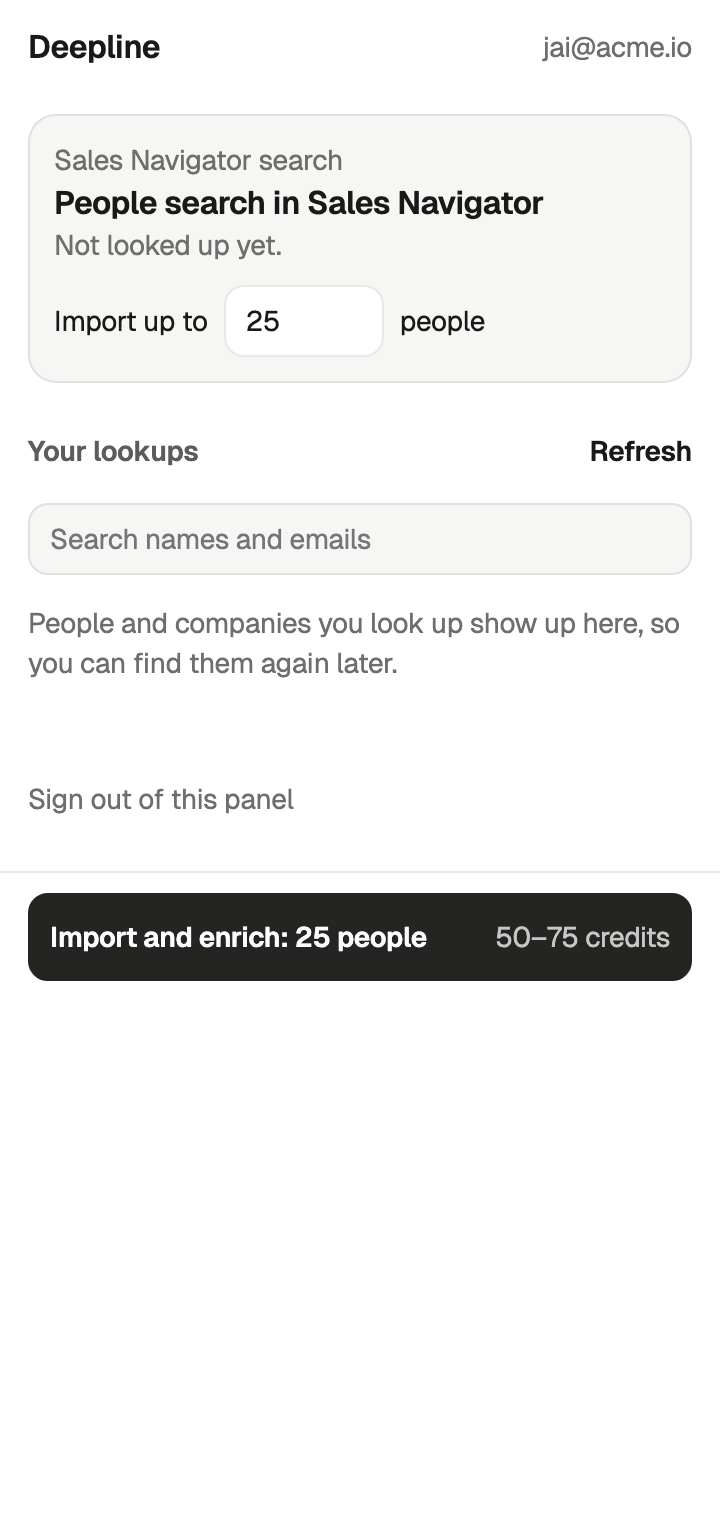
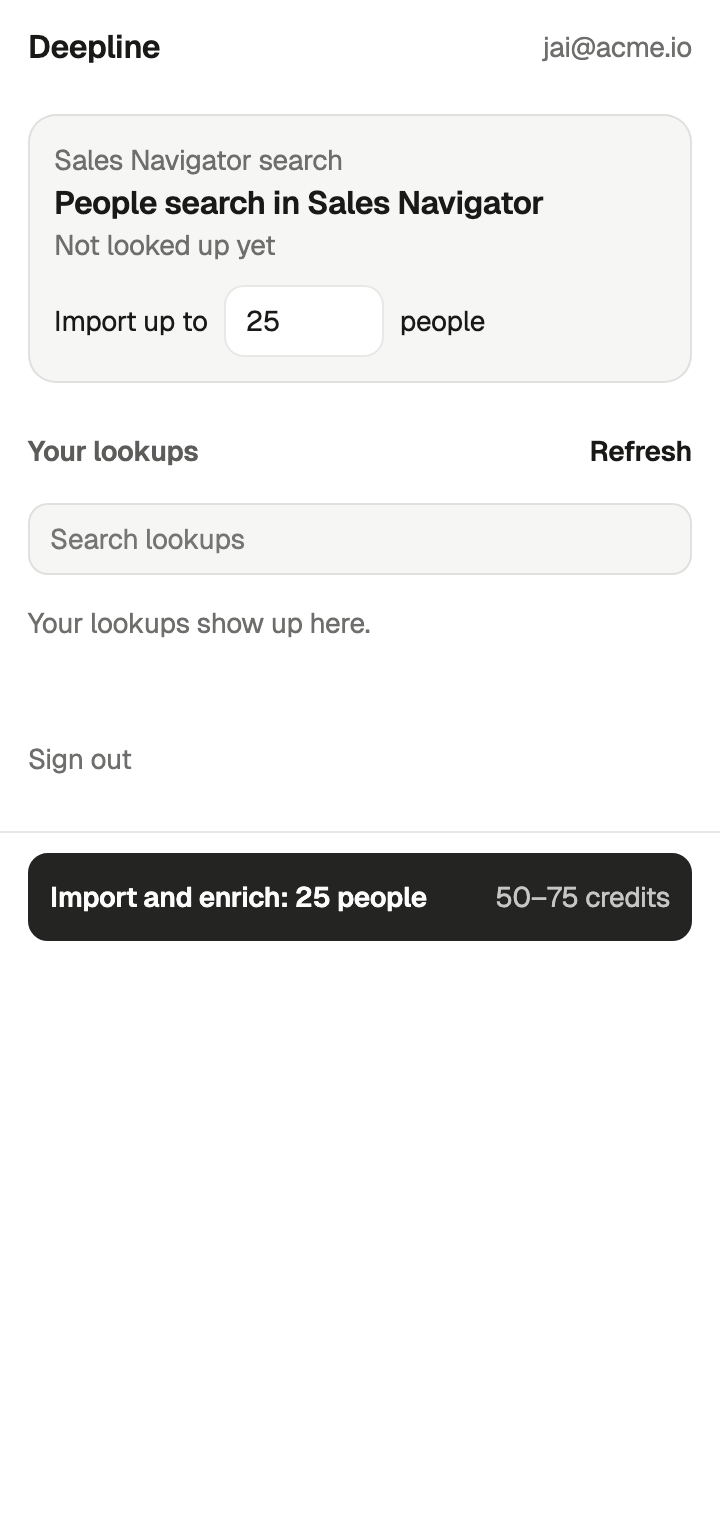
Only offer handoffs for connected integrations; tighten copy
Actions and handoffs whose integrations aren't connected for the
workspace (per /api/v2/integrations/list) are hidden, so "Add to HubSpot"
never shows without HubSpot. If the status call fails nothing is hidden.
Every rep-facing string is shorter and plainer. Adds a HubSpot-not-
connected screenshot state.

Claude-Session: https://claude.ai/code/session_019pSCRsQPCMXJtBrMuVGw7i

Changed region(s): [[0.0306, 0.4947, 0.9778, 0.6493], [0.0306, 0.402, 0.9472, 0.4638], [0.2139, 0.3401, 0.5194, 0.3711]]

diff --git a/docs/wireframes.html b/docs/wireframes.html
@@ -174,7 +174,7 @@ footer { color: var(--muted); font-size: 13px; display: grid; gap: 6px; }
       <div class="decision"><b>Nothing technical for reps</b><span>No keys, settings, play names to set up, or URLs. The central team chooses the actions and handoffs once in Deepline; reps just click.</span></div>
       <div class="decision"><b>One-step sign-in</b><span>Installing opens Deepline sign-in. If the rep is already signed in, the panel is connected with no steps at all.</span></div>
       <div class="decision"><b>What you have, then what to do</b><span>Saved results show before any paid action. Once a result is in, the pinned action becomes the handoff or Copy email, never a second paid lookup.</span></div>
-      <div class="decision"><b>Credits on the button</b><span>Every action shows its cost. Anything over 25 credits asks once in the panel. Misses are free.</span></div>
+      <div class="decision"><b>Credits on the button</b><span>Every action shows its cost. Anything over 25 credits asks once in the panel. No charge.</span></div>
       <div class="decision"><b>Only the address and title</b><span>The panel reads the page address and tab title, nothing else, so LinkedIn sees nothing. Deepline does every lookup.</span></div>
     </dl>
   </section>
@@ -228,7 +228,7 @@ const tableSec = rows => `<div class="box"><div class="kind"><b style="color:var
 const PROFILE = "linkedin.com/in/maya-okafor-4b1";
 const card = (kind, title, detected, inner = "") => `<div class="box"><div class="kind"><span>${kind}</span><u>${detected}</u></div><div class="ttl">${title}</div>${inner}</div>`;
 const cta = (label, meta = "", off = false) => `<div class="ctabar">${btn(label, meta, off ? "off" : "")}</div>`;
-const more = (items) => `<div class="more"><span class="sub">Other actions</span>${items.map(([l, m]) => `<div class="lk"><span class="lnk">${l}</span><small>${m}</small></div>`).join("")}</div>`;
+const more = (items) => `<div class="more"><span class="sub">More</span>${items.map(([l, m]) => `<div class="lk"><span class="lnk">${l}</span><small>${m}</small></div>`).join("")}</div>`;
 const panel = (u, body, ctaHtml) => `<div class="device" role="img" aria-label="Panel wireframe">${url(u)}<div class="p">${body}</div>${ctaHtml}</div>`;
 const browser = (u, body) => `<div class="device" role="img" aria-label="Browser tab wireframe">${url(u)}<div class="p">${body}</div></div>`;
 
@@ -238,17 +238,17 @@ const SECTIONS = [
     mock: browser("code.deepline.com/sign-in", `<div class="ttl">Sign in to Deepline</div><span class="sub">Opened automatically when you added the extension.</span>${btn("Continue with Google","","pri")}${btn("Email me a sign-in link")}`),
     goal: "Get set up without thinking about it.", needs: "Nothing new: the same Deepline account the team already uses.", cta: "Continue with Google (in the Deepline tab)", sys: "Installing opens this tab. Signing in here connects the panel; there is no second login." },
   { t: "Already signed in", crit: ["C4","C1"],
-    mock: panel(PROFILE, head() + card("LinkedIn profile","Maya Okafor","read from the address", `<span class="sub">Nothing saved for Maya yet.</span>`), cta("Find email + phone","~3 credits")),
+    mock: panel(PROFILE, head() + card("LinkedIn profile","Maya Okafor","read from the address", `<span class="sub">Not looked up yet</span>`), cta("Find email + phone","~3 credits")),
     goal: "Start working immediately.", needs: "That it's connected (their email, top right) and who is on screen.", cta: "Find email + phone · ~3 credits", sys: "Zero setup steps. The panel found the Deepline session and the team's actions." },
   { t: "Not signed in yet", crit: ["C4"],
-    mock: panel(PROFILE, head("") + `<div class="box"><div class="ttl">Sign in to start</div><span class="sub">Use the Deepline account your team uses. This panel connects by itself once you're signed in.</span><span class="lnk">Trouble signing in? Approve this browser instead</span></div>`, cta("Sign in to Deepline")),
+    mock: panel(PROFILE, head("") + `<div class="box"><div class="ttl">Sign in to start</div><span class="sub">Use your team's Deepline account. You only do this once.</span><span class="lnk">Trouble signing in? Approve this browser</span></div>`, cta("Sign in to Deepline")),
     goal: "Get in.", needs: "One way in, plus a way out if SSO blocks it.", cta: "Sign in to Deepline", sys: "Opens the sign-in tab; the panel connects the moment the tab finishes signing in." },
   { t: "Signed out later", crit: ["C4","C10"],
     mock: panel(PROFILE, head("") + `<div class="alert warn"><b>You're signed out of Deepline</b><span>Your saved lookups are safe.</span></div>` + card("LinkedIn profile","Maya Okafor","read from the address", `<span class="sub">Saved 3d ago: email, phone</span>`), cta("Sign in again")),
     goal: "Get back to work without losing anything.", needs: "That nothing was lost.", cta: "Sign in again", sys: "Saved results stay visible; nothing re-runs." },
   { t: "Team setup isn't done", crit: ["C10"],
-    mock: panel(PROFILE, head() + `<div class="box"><div class="ttl">Your team hasn't turned this on yet</div><span class="sub">Deepline couldn't finish setting up for your workspace. Send this to whoever manages Deepline on your team.</span><span class="lnk">Try again</span></div>`, cta("Copy a note for your admin")),
-    goal: "Get unblocked without understanding why.", needs: "Who can fix it.", cta: "Copy a note for your admin", sys: "Copies a plain-English request that names the one setup step." },
+    mock: panel(PROFILE, head() + `<div class="box"><div class="ttl">Not set up yet</div><span class="sub">Ask your Deepline admin to turn this on.</span><span class="lnk">Try again</span></div>`, cta("Copy note for admin")),
+    goal: "Get unblocked without understanding why.", needs: "Who can fix it.", cta: "Copy note for admin", sys: "Copies a plain-English request that names the one setup step." },
  ]},
  { id: "admin", label: "Central team", title: "One-time setup in Deepline", job: "The central team decides what reps see. Reps never do this.", frames: [
   { t: "Choose actions and handoffs", crit: ["C7","C6"],
@@ -262,19 +262,19 @@ const SECTIONS = [
  ]},
  { id: "person", label: "Person", title: "A LinkedIn profile or Sales Navigator lead", job: "Reach this person. Don't pay twice. Trust it before I send.", frames: [
   { t: "New person", crit: ["C1","C6","C11","C12"],
-    mock: panel(PROFILE, head() + card("LinkedIn profile","Maya Okafor","read from the address", `<span class="sub">Nothing saved for Maya yet.</span>` + more([["Job change check","~1 credit"]])), cta("Find email + phone","~3 credits")),
+    mock: panel(PROFILE, head() + card("LinkedIn profile","Maya Okafor","read from the address", `<span class="sub">Not looked up yet</span>` + more([["Job change check","~1 credit"]])), cta("Find email + phone","~3 credits")),
     goal: "Get a way to reach Maya.", needs: "That it's the right person, that nothing is saved yet, the cost.", cta: "Find email + phone · ~3 credits", sys: "Sends Maya's profile address to the team's action; checks every provider in turn; misses are free." },
   { t: "Working", crit: ["C1","C5","C9"],
-    mock: panel(PROFILE, head() + card("LinkedIn profile","Maya Okafor","read from the address", `<div class="row"><div class="top"><span class="nm">Find email + phone</span>${chip("working")}</div><div class="sk" style="width:70%"></div><div class="sk" style="width:45%"></div></div><span class="sub">You can open the next profile. This keeps going.</span>`), cta("Working on it…","",true)),
-    goal: "Keep moving.", needs: "That it's happening and that leaving is safe.", cta: "Working on it… (disabled)", sys: "Saved as in progress before it starts, so closing the panel loses nothing." },
+    mock: panel(PROFILE, head() + card("LinkedIn profile","Maya Okafor","read from the address", `<div class="row"><div class="top"><span class="nm">Find email + phone</span>${chip("working")}</div><div class="sk" style="width:70%"></div><div class="sk" style="width:45%"></div></div><span class="sub">You can open the next profile. This keeps going.</span>`), cta("Working…","",true)),
+    goal: "Keep moving.", needs: "That it's happening and that leaving is safe.", cta: "Working… (disabled)", sys: "Saved as in progress before it starts, so closing the panel loses nothing." },
   { t: "Found, with a handoff", crit: ["C3","C7","C13"],
-    mock: panel(PROFILE, head() + card("LinkedIn profile","Maya Okafor","read from the address", `<div class="row"><div class="top"><span class="nm">Find email + phone</span>${chip("done","ok")}</div>${val("maya@northwind.io","verified · today")}${val("+1 415 555 0142","mobile · today")}<span class="lnk">Wrong or bounced? Look up again</span></div>` + more([["Copy email",""],["Add to Q4 lemlist","free"]])), cta("Add to HubSpot","free")),
-    goal: "Use the result without copy-paste.", needs: "The email and phone, whether to trust them, where they can go.", cta: "Add to HubSpot", sys: "Runs the team's HubSpot handoff with Maya's details; the row then reads 'Add to HubSpot: done' with a link." },
+    mock: panel(PROFILE, head() + card("LinkedIn profile","Maya Okafor","read from the address", `<div class="row"><div class="top"><span class="nm">Find email + phone</span>${chip("done","ok")}</div>${val("maya@northwind.io","verified · today")}${val("+1 415 555 0142","mobile · today")}<span class="lnk">Wrong or bounced? Find email + phone again</span></div>` + more([["Copy email",""],["Add to Q4 lemlist","free"]])), cta("Add to HubSpot","free")),
+    goal: "Use the result without copy-paste.", needs: "The email and phone, whether to trust them, where they can go.", cta: "Add to HubSpot", sys: "Shown only when the workspace has HubSpot connected. Runs the team's HubSpot handoff with Maya's details; the row then reads 'Add to HubSpot: done' with a link." },
   { t: "Found, no handoff set up", crit: ["C3","C13"],
-    mock: panel(PROFILE, head() + card("LinkedIn profile","Maya Okafor","read from the address", `<div class="row"><div class="top"><span class="nm">Find email + phone</span>${chip("done · 12d ago","ok")}</div>${val("maya@northwind.io","verified 12d ago")}${val("+1 415 555 0142","mobile")}</div>` + more([["Look up again","~3 credits"],["Job change check","~1 credit"]])), cta("Copy email","maya@northwind.io")),
+    mock: panel(PROFILE, head() + card("LinkedIn profile","Maya Okafor","read from the address", `<div class="row"><div class="top"><span class="nm">Find email + phone</span>${chip("done · 12d ago","ok")}</div>${val("maya@northwind.io","verified 12d ago")}${val("+1 415 555 0142","mobile")}</div>` + more([["Find email + phone again","~3 credits"],["Job change check","~1 credit"]])), cta("Copy email","maya@northwind.io")),
     goal: "Get the email into my email.", needs: "The saved value and how old it is.", cta: "Copy email", sys: "Nothing is re-bought. Looking up again is a deliberate, priced choice." },
   { t: "Nothing found", crit: ["C10","C6"],
-    mock: panel(PROFILE, head() + card("LinkedIn profile","Maya Okafor","read from the address", `<div class="row"><div class="top"><span class="nm">Find email + phone</span>${chip("nothing found","bad")}</div><span class="sub">Every provider checked. Misses are free.</span></div>`), cta("Job change check","~1 credit")),
+    mock: panel(PROFILE, head() + card("LinkedIn profile","Maya Okafor","read from the address", `<div class="row"><div class="top"><span class="nm">Find email + phone</span>${chip("nothing found","bad")}</div><span class="sub">Every provider checked. No charge.</span></div>`), cta("Job change check","~1 credit")),
     goal: "Know what to try next.", needs: "That it really looked, and that it was free.", cta: "The team's next action (here, Job change check)", sys: "No charge for the miss." },
   { t: "Sales Navigator lead", crit: ["C11","C12"],
     mock: panel("linkedin.com/sales/lead/ACwAAB3k…", head() + card("Sales Navigator lead","Sam Lee","read from the address", `<span class="sub">Sales Navigator hides the public profile, so this finds it from the name first.</span>`), cta("Find email + phone","~4 credits")),
@@ -290,7 +290,7 @@ const SECTIONS = [
     mock: panel("linkedin.com/sales/search/people?query=…", head() + card("Sales Navigator search","VP Sales · SaaS · 51–200","read from the address", `<div class="field"><span>How many</span><span class="input" style="padding:3px 8px"><span style="color:var(--ink)">25</span><span>people</span></span></div><span class="sub">Deepline fetches the results. Nothing is read from this page.</span>`), cta("Import and enrich: 25 people","up to 75 credits")),
     goal: "Turn this search into a list.", needs: "How many, the cost, that LinkedIn isn't touched.", cta: "Import and enrich: 25 people · up to 75 credits", sys: "Hands the search address to the team's import; each person becomes a saved lookup." },
   { t: "Over 25 credits", crit: ["C6"],
-    mock: panel("linkedin.com/sales/search/people?query=…", head() + card("Sales Navigator search","VP Sales · SaaS · 51–200","read from the address", `<div class="alert warn"><b>This may use up to 300 credits</b><span>You're only charged for what's found.</span><span class="lnk">Cancel</span></div>`), cta("Go ahead","up to 300 credits")),
+    mock: panel("linkedin.com/sales/search/people?query=…", head() + card("Sales Navigator search","VP Sales · SaaS · 51–200","read from the address", `<div class="alert warn"><b>Up to 300 credits</b><span>You only pay for what's found.</span><span class="lnk">Cancel</span></div>`), cta("Go ahead","up to 300 credits")),
     goal: "Avoid a surprise bill.", needs: "The worst-case cost.", cta: "Go ahead · up to 300 credits", sys: "The confirm is part of the panel, never a pop-up." },
   { t: "Importing", crit: ["C8","C9"],
     mock: panel("linkedin.com/feed/", head() + `<div class="box"><div class="row"><div class="top"><span class="nm">VP Sales · SaaS · 51–200</span>${chip("38 of 100")}</div><div class="bar"><i style="width:38%"></i></div><span class="sub">31 emails, 22 phones so far</span></div></div>`, cta("Search your lookups")),
@@ -303,7 +303,7 @@ const SECTIONS = [
  ]},
  { id: "lookups", label: "Your lookups", title: "Everyone you've looked up", job: "Find who I looked up last week.", frames: [
   { t: "Any other page", crit: ["C9","C13","C5"],
-    mock: panel("mail.google.com/mail/u/0/#inbox", head() + `<div class="box"><span class="sub">Open a LinkedIn profile, company or search, a Sales Navigator lead or list, a CRM record, or any company website.</span></div>` + tableSec(`<div class="row"><div class="top"><span class="nm">Maya Okafor</span>${chip("done","ok")}</div><span class="sub">Find email + phone · 2m ago</span>${val("maya@northwind.io","verified")}</div><div class="row"><div class="top"><span class="nm">Priya Shah</span>${chip("done","ok")}</div><span class="sub">Finished while the panel was closed</span></div><div class="row"><div class="top"><span class="nm">Leo Martins</span>${chip("didn't finish","bad")}</div><span class="sub">A provider timed out. Not charged.</span></div>`), cta("Search your lookups")),
+    mock: panel("mail.google.com/mail/u/0/#inbox", head() + `<div class="box"><span class="sub">Open a LinkedIn profile, company or search, a CRM record, or a company website.</span></div>` + tableSec(`<div class="row"><div class="top"><span class="nm">Maya Okafor</span>${chip("done","ok")}</div><span class="sub">Find email + phone · 2m ago</span>${val("maya@northwind.io","verified")}</div><div class="row"><div class="top"><span class="nm">Priya Shah</span>${chip("done","ok")}</div><span class="sub">Finished while the panel was closed</span></div><div class="row"><div class="top"><span class="nm">Leo Martins</span>${chip("didn't finish","bad")}</div><span class="sub">A provider timed out. Not charged.</span></div>`), cta("Search your lookups")),
     goal: "Find someone again.", needs: "Names, emails, what's done and what failed.", cta: "Search your lookups", sys: "Every lookup is saved in Deepline; anything that finished while closed is filled in on open." },
  ]},
  { id: "later", label: "Later", later: true, title: "Later", job: "Shown so you can approve or cut it. Gmail is out of scope for now.", frames: [

diff --git a/src/sidepanel/sidepanel.ts b/src/sidepanel/sidepanel.ts
@@ -4,7 +4,7 @@
  *  flight are tracked by the rep's rows, so closing the panel loses nothing. */
 import { fetchSession, keySession, pollClaim, registerDevice, signInUrl, isDeeplineTab, type Connection, type PendingClaim } from "../background/auth";
 import { KIND_GROUP, KIND_LABEL, pageContext, type PageContext } from "../shared/context";
-import { AuthError, DEFAULT_BASE_URL, TERMINAL, costLabel, inputFor, listPlays, maxCredits, normalizeBaseUrl, pollRun, query, startRun, type Credential, type PlaySummary } from "../shared/deepline";
+import { AuthError, DEFAULT_BASE_URL, TERMINAL, connectedProviders, costLabel, inputFor, listPlays, playAvailable, maxCredits, normalizeBaseUrl, pollRun, query, startRun, type Credential, type PlaySummary } from "../shared/deepline";
 import { CONFIG_SQL, DEFAULT_CONFIG, SETUP_SQL, finishSql, listSql, parseConfig, startSql, type AssistantConfig, type RecordRow } from "../shared/records";
 
 declare const __EXTENSION_VERSION__: string;
@@ -51,6 +51,8 @@ const state = {
   needsSetup: false,
   config: DEFAULT_CONFIG as AssistantConfig,
   plays: [] as PlaySummary[],
+  /** Integrations the workspace has connected; null until known (then nothing is hidden). */
+  connected: null as Set<string> | null,
   ctx: pageContext(undefined),
   cap: DEFAULT_CONFIG.default_import_cap,
   rows: [] as RecordRow[],
@@ -63,11 +65,11 @@ const state = {
 function friendly(e: unknown): string {
   const msg = e instanceof Error ? e.message : String(e);
   console.warn("[deepline-assistant]", msg);
-  if (e instanceof AuthError) return "You're signed out of Deepline. Sign in again to keep going.";
-  if (/credit|balance|insufficient|402/i.test(msg)) return "Your team is out of Deepline credits. Ask your admin to add more.";
-  if (/429|concurrency|too many/i.test(msg)) return "Deepline is busy with your other lookups. Try again in a few seconds.";
-  if (/Failed to fetch|NetworkError|network/i.test(msg)) return "Can't reach Deepline. Check your connection and try again.";
-  return "That didn't work. Try again, and tell your Deepline admin if it keeps happening.";
+  if (e instanceof AuthError) return "Signed out. Sign in to continue.";
+  if (/credit|balance|insufficient|402/i.test(msg)) return "Out of credits. Ask your admin to add more.";
+  if (/429|concurrency|too many/i.test(msg)) return "Busy. Try again in a moment.";
+  if (/Failed to fetch|NetworkError|network/i.test(msg)) return "Can't reach Deepline. Check your connection.";
+  return "Something went wrong. Try again.";
 }
 function showError(e: unknown) {
   const box = $("error");
@@ -79,7 +81,7 @@ function showError(e: unknown) {
 const rowKey = (r: Pick<RecordRow, "entity_key" | "play_key">) => `${r.entity_key}\u0000${r.play_key}`;
 /** A configured play, with the team's rep-facing label applied. */
 function findPlay(key: string): PlaySummary | undefined {
-  const p = state.plays.find((x) => x.playKey === key || x.playKey === `prebuilt/${key}`);
+  const p = state.plays.find((x) => (x.playKey === key || x.playKey === `prebuilt/${key}`) && playAvailable(x, state.connected));
   const label = state.config.labels[key] ?? (p && state.config.labels[p.playKey]);
   return p && label ? { ...p, displayName: label } : p;
 }
@@ -88,7 +90,7 @@ function ago(iso: string): string {
   const s = Math.max(0, (Date.now() - Date.parse(iso)) / 1000);
   return s < 60 ? "just now" : s < 3600 ? `${Math.floor(s / 60)}m ago` : s < 86400 ? `${Math.floor(s / 3600)}h ago` : `${Math.floor(s / 86400)}d ago`;
 }
-const STATUS_LABEL: Record<string, string> = { queued: "starting", running: "working", waiting: "working", completed: "done", failed: "didn't finish", cancelled: "stopped" };
+const STATUS_LABEL: Record<string, string> = { queued: "starting", running: "working", waiting: "working", completed: "done", failed: "failed", cancelled: "stopped" };
 
 /* ---------------------------------------------------------------- sign-in */
 
@@ -114,7 +116,11 @@ async function connect(): Promise<void> {
   }
   $("who").textContent = state.owner ?? "";
   if (!state.cred) return void (s.claim ? waitForClaim(s.claim) : undefined);
-  await Promise.all([setUp(s), listPlays(state.cred).then((p) => (state.plays = p))]);
+  await Promise.all([
+    setUp(s),
+    listPlays(state.cred).then((p) => (state.plays = p)),
+    connectedProviders(state.cred).then((c) => (state.connected = c), (e) => console.warn("[deepline-assistant] integration status unavailable", e))
+  ]);
   if (!state.needsSetup) await loadRows();
 }
 
@@ -264,7 +270,7 @@ const isBusy = (entity: string, play: string) => state.busy.has(rowKey({ entity_
 /** Pick the one thing the rep most needs to do here, and list the rest quietly. */
 function plan(): { cta: Cta | null; others: { label: string; meta: string; run: () => void; disabled: boolean }[] } {
   if (!state.cred) return { cta: { label: "Sign in to Deepline", run: () => void chrome.tabs.create({ url: signInUrl(state.baseUrl) }) }, others: [] };
-  if (state.needsSetup) return { cta: { label: "Copy a note for your admin", run: copyAdminNote }, others: [] };
+  if (state.needsSetup) return { cta: { label: "Copy note for admin", run: copyAdminNote }, others: [] };
   const c = state.confirming;
   if (c) return { cta: { label: "Go ahead", meta: `up to ${Math.round(c.credits)} credits`, run: () => void run(c.play, c.ctx) }, others: [] };
   const ctx: PageContext = { ...state.ctx, limit: KIND_GROUP[state.ctx.kind] === "search" ? state.cap : undefined };
@@ -282,16 +288,16 @@ function plan(): { cta: Cta | null; others: { label: string; meta: string; run: 
   const nextHandoff = result ? handoffsFor(result).find((x) => !x.done) : undefined;
 
   let cta: Cta | null = null;
-  if (running || [...state.busy].some((k) => k.startsWith(`${entity}\u0000`))) cta = { label: "Working on it…", disabled: true, run: () => undefined };
+  if (running || [...state.busy].some((k) => k.startsWith(`${entity}\u0000`))) cta = { label: "Working…", disabled: true, run: () => undefined };
   else if (nextHandoff) cta = { label: nextHandoff.play.displayName, meta: costLabel(nextHandoff.play.cost), run: () => requestRun(nextHandoff.play, nextHandoff.ctx) };
   else if (result?.email) cta = { label: "Copy email", meta: result.email, run: () => void copy(result.email!) };
   else if (fresh[0]) cta = item(fresh[0]);
-  else if (actions[0]) cta = { ...item(actions[0]), label: `Look up again: ${actions[0].displayName}` };
+  else if (actions[0]) cta = { ...item(actions[0]), label: `${actions[0].displayName} again` };
 
   const ctaPlay = cta && fresh[0] && cta.label === label(fresh[0]) ? fresh[0].playKey : null;
   const others = actions.filter((p) => p.playKey !== ctaPlay && !isBusy(entity, p.playKey)).map((p) => {
     const done = rows.some((r) => r.play_key === p.playKey && r.status === "completed");
-    return { ...item(p), label: done ? `Look up again: ${p.displayName}` : label(p) };
+    return { ...item(p), label: done ? `${p.displayName} again` : label(p) };
   });
   return { cta, others };
 }
@@ -312,9 +318,9 @@ function rowItem(r: RecordRow, onPage: boolean): HTMLElement {
       h("span", { class: `chip ${r.status}` }, STATUS_LABEL[r.status] ?? r.status)
     ),
     h("span", { class: "muted" }, onPage ? ago(r.updated_at) : `${playName(r.play_key)} · ${ago(r.updated_at)}`),
-    r.email ? copyBtn(r.email, "verified email") : null,
+    r.email ? copyBtn(r.email, "verified") : null,
     r.phone ? copyBtn(r.phone, "phone") : null,
-    r.status === "completed" && !r.email && !r.phone && /linkedin_person|salesnav_lead|crm_record/.test(r.kind ?? "") ? h("span", { class: "muted" }, "Nothing found. Misses are free.") : null,
+    r.status === "completed" && !r.email && !r.phone && /linkedin_person|salesnav_lead|crm_record/.test(r.kind ?? "") ? h("span", { class: "muted" }, "Nothing found. No charge.") : null,
     r.error ? h("span", { class: "err" }, r.error) : null,
     ...handoffNote
   );
@@ -347,14 +353,14 @@ function render() {
     $("pageKind").hidden = !$("pageKind").textContent;
     $("pageLabel").textContent = ctx.label;
     const pageRows = state.rows.filter((r) => r.entity_key === ctx.entity_key && !state.config.handoffs.includes(r.play_key));
-    $("pageRows").replaceChildren(...(pageRows.length ? pageRows.map((r) => rowItem(r, true)) : [h("li", { class: "muted" }, "Not looked up yet.")]));
+    $("pageRows").replaceChildren(...(pageRows.length ? pageRows.map((r) => rowItem(r, true)) : [h("li", { class: "muted" }, "Not looked up yet")]));
     $("capRow").hidden = KIND_GROUP[ctx.kind] !== "search" || !pageActions(ctx).length;
     const c = state.confirming;
     $("confirm").hidden = !c;
-    if (c) $("confirm").replaceChildren(h("b", {}, `This may use up to ${Math.round(c.credits)} credits`), h("span", { class: "muted" }, "You're only charged for what's found."), h("button", { class: "link", on: { click: () => ((state.confirming = null), render()) } }, "Cancel"));
+    if (c) $("confirm").replaceChildren(h("b", {}, `Up to ${Math.round(c.credits)} credits`), h("span", { class: "muted" }, "You only pay for what's found."), h("button", { class: "link", on: { click: () => ((state.confirming = null), render()) } }, "Cancel"));
     $("more").hidden = !others.length || !!c;
     $("actions").replaceChildren(...others.map((o) => h("button", { class: "link", disabled: o.disabled, on: { click: o.run } }, h("span", {}, o.label), h("span", { class: "why" }, o.meta))));
-    if (!pageActions(ctx).length && !state.rows.some((r) => r.entity_key === ctx.entity_key)) $("pageRows").replaceChildren(h("li", { class: "muted" }, "Your team hasn't added actions for this kind of page yet."));
+    if (!pageActions(ctx).length && !state.rows.some((r) => r.entity_key === ctx.entity_key)) $("pageRows").replaceChildren(h("li", { class: "muted" }, "No actions for this page yet. Ask your admin."));
   }
   const q = ($("filter") as HTMLInputElement).value.trim().toLowerCase();
   const mine = state.rows.filter((r) => !state.config.handoffs.includes(r.play_key));
@@ -366,8 +372,8 @@ function render() {
 let ctaRun: () => void = () => undefined;
 
 function copyAdminNote() {
-  const note = `Hi, I'd like to use the Deepline Assistant Chrome extension but it says our workspace isn't set up. In Deepline, please run the "Deepline Assistant setup" play once (Plays > Deepline Assistant setup > Run). It creates the table the extension saves lookups to and lets you choose which actions reps see. My account: ${state.owner ?? ""}.`;
-  void navigator.clipboard.writeText(note).then(() => ($("ctaLabel").textContent = "Copied. Paste it to your admin."), () => undefined);
+  const note = `Can you turn on the Deepline Assistant Chrome extension for our team? In Deepline, run the play "prebuilt/deepline-assistant-setup" once. (My account: ${state.owner ?? ""})`;
+  void navigator.clipboard.writeText(note).then(() => ($("ctaLabel").textContent = "Copied"), () => undefined);
 }
 
 /* ---------------------------------------------------------------- tabs */

diff --git a/src/sidepanel/sidepanel.html b/src/sidepanel/sidepanel.html
@@ -121,17 +121,16 @@
   <section id="connect" hidden>
     <div class="card">
       <div class="title">Sign in to start</div>
-      <p class="muted">Use the same Deepline account your team uses. You only do this once.</p>
-      <p class="muted">This panel connects by itself once you're signed in.</p>
-      <button id="approve" class="link">Trouble signing in? Approve this browser instead</button>
-      <p id="claimNote" class="muted" hidden>Click Approve in the Deepline tab that just opened. This panel connects as soon as you do.</p>
+      <p class="muted">Use your team's Deepline account. You only do this once.</p>
+      <button id="approve" class="link">Trouble signing in? Approve this browser</button>
+      <p id="claimNote" class="muted" hidden>Click Approve in the Deepline tab.</p>
     </div>
   </section>
 
   <section id="setup" hidden>
     <div class="card">
-      <div class="title">Your team hasn't turned this on yet</div>
-      <p class="muted">Deepline couldn't finish setting up for your team. Send this to whoever manages Deepline on your team.</p>
+      <div class="title">Not set up yet</div>
+      <p class="muted">Ask your Deepline admin to turn this on.</p>
       <button id="retrySetup" class="link">Try again</button>
     </div>
   </section>
@@ -143,23 +142,23 @@
       <ul id="pageRows" class="rows"></ul>
       <label id="capRow" class="cap" hidden>Import up to <input id="cap" type="number" min="1" max="1000" step="1"> people</label>
       <div id="confirm" class="confirm" hidden></div>
-      <div id="more" class="more" hidden><span class="muted">Other actions</span><div id="actions"></div></div>
+      <div id="more" class="more" hidden><span class="muted">More</span><div id="actions"></div></div>
     </div>
   </section>
 
   <section id="idle" hidden>
-    <div class="card muted">Open a LinkedIn profile, company page or search, a Sales Navigator lead or list, a Salesforce or HubSpot record, or any company website.</div>
+    <div class="card muted">Open a LinkedIn profile, company or search, a CRM record, or a company website.</div>
   </section>
 
   <section id="table" hidden>
     <h2><span>Your lookups</span><button id="refresh" class="link">Refresh</button></h2>
-    <input id="filter" type="search" placeholder="Search names and emails" aria-label="Search your lookups">
+    <input id="filter" type="search" placeholder="Search lookups" aria-label="Search lookups">
     <ul id="rows" class="rows" style="margin-top:6px"></ul>
-    <p id="empty" class="muted" hidden>People and companies you look up show up here, so you can find them again later.</p>
+    <p id="empty" class="muted" hidden>Your lookups show up here.</p>
   </section>
 </main>
 <footer>
-  <button id="disconnect" class="link muted" hidden>Sign out of this panel</button>
+  <button id="disconnect" class="link muted" hidden>Sign out</button>
 </footer>
 <div class="cta" id="ctaBar" hidden><button id="cta" class="btn primary"><span id="ctaLabel"></span><span id="ctaMeta" class="why"></span></button></div>
 <script type="module" src="sidepanel.js"></script>

diff --git a/scripts/preview/stub.js b/scripts/preview/stub.js
@@ -15,8 +15,8 @@
     { playKey: "company-profile", displayName: "company-profile", inputSchema: schema(["domain", "company_linkedin_url"]), costEstimate: cost(1, 1) },
     { playKey: "search-import", displayName: "search-import", inputSchema: schema(["search_url", "limit"], ["search_url"]), costEstimate: cost(2, 3, "row") },
     { playKey: "crm-fill", displayName: "crm-fill", inputSchema: schema(["crm_system", "crm_object", "crm_id"], ["crm_id"]), costEstimate: cost(3, 3) },
-    { playKey: "add-to-hubspot", displayName: "add-to-hubspot", inputSchema: schema(["linkedin_url", "email", "first_name", "last_name"], ["email"]), costEstimate: cost(0, 0) },
-    { playKey: "add-to-lemlist", displayName: "add-to-lemlist", inputSchema: schema(["email", "first_name"], ["email"]), costEstimate: cost(0, 0) }
+    { playKey: "add-to-hubspot", displayName: "add-to-hubspot", inputSchema: schema(["linkedin_url", "email", "first_name", "last_name"], ["email"]), costEstimate: cost(0, 0), providers: ["hubspot"] },
+    { playKey: "add-to-lemlist", displayName: "add-to-lemlist", inputSchema: schema(["email", "first_name"], ["email"]), costEstimate: cost(0, 0), providers: ["lemlist"] }
   ];
   const CONFIG = {
     actions: { person: ["prebuilt/deepline-assistant", "prebuilt/job-change-check"], company: ["find-buyers", "company-profile"], search: ["search-import"], crm: ["crm-fill"] },
@@ -48,6 +48,7 @@
     "search-confirm": { tab: { url: "https://www.linkedin.com/sales/search/people?query=(filters%3AList((type%3ACURRENT_TITLE)))", title: "Sales Navigator" }, rows: [], click: true },
     "crm": { tab: { url: "https://acme.lightning.force.com/lightning/r/Contact/003Ak00000ABCDeIAX/view", title: "Maya Okafor | Salesforce" }, rows: [] },
     "lookups": { tab: { url: "https://mail.google.com/mail/u/0/#inbox", title: "Inbox (3) - jai@acme.io - Gmail" }, rows: [found(), ...others] },
+    "crm-not-connected": { tab: PROFILE, rows: [found()], disconnected: ["hubspot"] },
     "no-actions": { tab: PROFILE, rows: [], config: { actions: { person: [], company: [], search: [], crm: [] } } }
   };
   const st = STATES[name];
@@ -74,6 +75,7 @@
       if (sql.startsWith("SELECT")) return json({ rows: st.rows ?? [] });
       return json({ rows: [] });
     }
+    if (u.pathname === "/api/v2/integrations/list") return json({ integrations: ["hubspot", "lemlist", "salesforce"].map((provider) => ({ provider, connection: { connected: !(st.disconnected ?? []).includes(provider) } })) });
     if (u.pathname.endsWith("/status")) return json({ available: true, lifecycle: { status: "running" } });
     return json({}, 404);
   };

diff --git a/src/shared/deepline.ts b/src/shared/deepline.ts
@@ -25,6 +25,19 @@ export interface PlaySummary {
   contextFields: string[] | null;
   /** Credits per run (or per row for row-unit plays), when Deepline can estimate it. */
   cost: { low: number; high: number; perRow: boolean } | null;
+  /** Integrations the play calls (HubSpot, Salesforce, lemlist...). */
+  providers: string[];
+}
+
+/** Providers this workspace can use right now: connected by the team, or provided by Deepline. */
+export async function connectedProviders(cred: Credential, fetchImpl: FetchLike = fetch): Promise<Set<string>> {
+  const json = await call<{ integrations?: { provider?: string; disabled?: boolean; auth?: { status?: string }; connection?: { connected?: boolean } }[] }>(cred, "/api/v2/integrations/list?include_integration_status=true", fetchImpl);
+  return new Set((json.integrations ?? []).filter((e) => e.provider && !e.disabled && (e.connection?.connected || e.auth?.status === "configured")).map((e) => e.provider!));
+}
+
+/** A play is offered only if every integration it calls is connected. `null` = status unknown, so offer it. */
+export function playAvailable(play: Pick<PlaySummary, "providers">, connected: Set<string> | null): boolean {
+  return !connected || play.providers.every((p) => connected.has(p));
 }
 
 /** "~3 credits", "1–4 credits", "cost varies". Per-row plays scale by the rep's cap. */
@@ -136,7 +149,8 @@ export function toSummary(p: Record<string, unknown>): PlaySummary | null {
     description: typeof p.description === "string" ? p.description : null,
     origin: typeof p.origin === "string" ? p.origin : "owned",
     ...schemaFields(p.inputSchema),
-    cost
+    cost,
+    providers: Array.isArray(p.providers) ? p.providers.filter((x): x is string => typeof x === "string") : []
   };
 }
 

diff --git a/tests/unit/deepline.test.ts b/tests/unit/deepline.test.ts
@@ -48,3 +48,26 @@ describe("runs", () => {
     await expect(startRun(cred, "p", {}, async () => json({}, 401))).rejects.toThrow("Not signed in");
   });
 });
+
+import { connectedProviders, playAvailable } from "../../src/shared/deepline";
+
+describe("connected integrations", () => {
+  it("offers a play only when every integration it calls is connected", () => {
+    const connected = new Set(["leadmagic", "lemlist"]);
+    expect(playAvailable({ providers: ["hubspot"] }, connected)).toBe(false);
+    expect(playAvailable({ providers: ["lemlist"] }, connected)).toBe(true);
+    expect(playAvailable({ providers: [] }, connected)).toBe(true);
+    expect(playAvailable({ providers: ["hubspot"] }, null)).toBe(true);
+  });
+  it("counts team connections and Deepline-provided integrations, not disabled or missing ones", async () => {
+    const set = await connectedProviders(cred, async () =>
+      json({ integrations: [
+        { provider: "hubspot", connection: { connected: true } },
+        { provider: "leadmagic", auth: { status: "configured" } },
+        { provider: "salesforce", auth: { status: "missing" } },
+        { provider: "lemlist", auth: { status: "configured" }, disabled: true }
+      ] })
+    );
+    expect([...set].sort()).toEqual(["hubspot", "leadmagic"]);
+  });
+});

diff --git a/README.md b/README.md
@@ -14,7 +14,7 @@ Everything you look up is saved under **Your lookups**, so you can find it again
 
 ## For the central team
 
-Run the **Deepline Assistant setup** play once in the Deepline app (`examples/assistant-setup.play.ts`). It creates the lookups table and saves what reps see:
+Run the built-in `prebuilt/deepline-assistant-setup` play once in the Deepline app. It creates the lookups table and saves what reps see:
 
 - which actions appear on person, company, search and CRM pages, in order (the first is the pinned button);
 - which handoffs (add to CRM, add to sequence) appear on a finished result;
